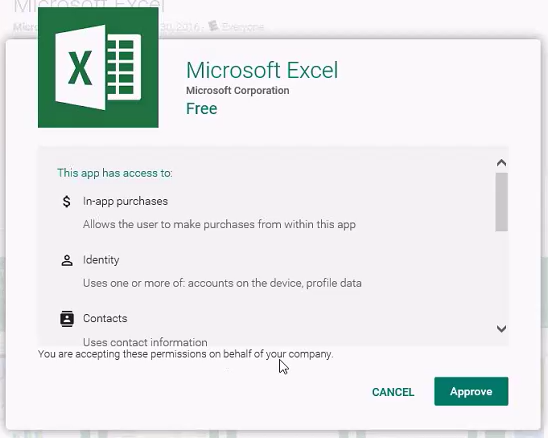
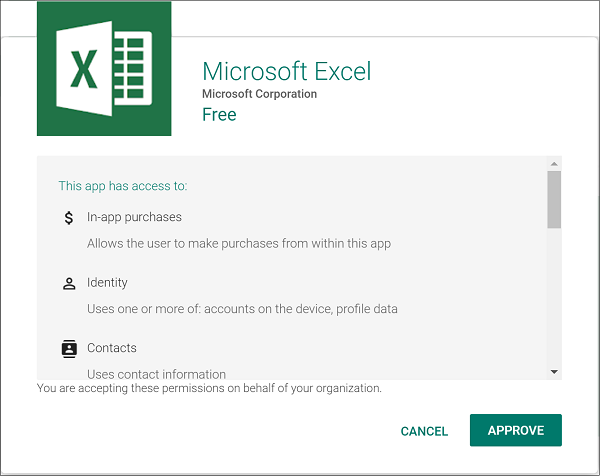
erikre - Update apps 09

diff --git a/intune/apps-add-android-for-work.md b/intune/apps-add-android-for-work.md
@@ -3,12 +3,12 @@
 
 title: Assign apps to Android for Work devices 
 titlesuffix: Microsoft Intune
-description: Understand how to synchronize and assign apps to Android for Work devices from the Google Play for Work Store."
+description: Understand how to synchronize and assign apps to Android for Work devices from the Google Play for Work Store.
 keywords:
 author: Erikre
 ms.author: erikre
 manager: dougeby
-ms.date: 03/05/2018
+ms.date: 03/07/2018
 ms.topic: article
 ms.prod:
 ms.service: microsoft-intune
@@ -44,39 +44,51 @@ Make sure you have configured Intune and Android for Work to work together in th
 ## Synchronize an app from the Google Play for Work store
 
 1. Go to the [Google Play for Work store](https://play.google.com/work). Sign in with the same account you used to configure the connection between Intune and Android for Work.
-2. Search the store for the app you want to assign using Intune.
-3. On the page for the app you chose, choose **Approve**. In this example, you have chosen the Microsoft Excel app.<br>
-  ![Approve app example](media/approve.png)
-4. A window for the app opens asking you to give permissions for the app to perform various operations. Choose **Approve** to continue.<br>
-  ![Approve app permissions example](media/approve-app-permissions.png)
-5. The app is approved and displays in your IT admin console.
+2. Search the store and select the app you want to assign using Intune.
+3. Select **Approve** on the page showing the app. The following examples shows the Microsoft Excel app has been chosen.</br>
 
-## Publish, then synchronize, a line-of-business app from the Google Play for Work store
+    ![Example - Approve app in the Google Play for Work store](media/approve.png)</br>
+    
+  A window for the app opens asking you to give permissions for the app to perform various operations. 
 
-1. Go to the Google Play Developer Console, [play.google.com/apps/publish](https://play.google.com/apps/publish).
-2. Sign in with the same account you used to configure the connection between Intune and Android for Work. If you are signing in for the first time, you must register, and pay a fee to become a member of the Google Developer program.
-3. In the console, choose **Add new application**.
-4. You upload and provide information about your app in the same way as you publish any app to the Google Play store. However, you must select the setting **Only make this application available to my organization (<*organization name*>)**:<br>
-  ![Option to only make app available to your organization](media/restrict.png)<br>
-This operation ensures that the app is only available to your organization, and is not available in the public Google Play store.
-For more information about how to upload and publish Android apps, see the [Google Developer Console Help](https://support.google.com/googleplay/android-developer/answer/113469).
-5. Once you have published your app, go to the [Google Play for Work store](https://play.google.com/work). Sign in with the same account you used to configure the connection between Intune and Android for Work.
-6. In the **Apps** node of the store, verify you can see the app you have published. The app is automatically approved to be synchronized with Intune.
+4. Select **Approve** to accept the app permissions and continue.</br>
 
-## Assign an Android for Work app
+    ![Example - Approve app permissions](media/approve-app-permissions.png)
+
+5. Choose the how to handle new app perimssion requests. Thenn, select **Save** to save how new app permission requests will be handled.</br>
+
+    ![Example - Save new app perimssion requests](media/approve-app-settings.png)</br>
+
+    The app is approved and displays in your IT admin console. Now you can sync the Android for Work app with Intune and 
+
+## Sync an Android for Work app with Intune
 
 If you have approved an app from the store and don't see it in the **Licensed apps** node of the **Mobile apps** workload, force an immediate sync as follows:
 
 1. Sign into the [Azure portal](https://portal.azure.com).
 2. Choose **All services** > **Intune**. Intune is located in the **Monitoring + Management** section.
-2. On the **Intune** pane, choose **Mobile apps**.
-3. In the **Mobile apps** workload, choose **Setup** > **Android for Work**.
-4. On the Android for Work pane, choose **Sync**.
-5. The page also displays the time and status of the last sync.
+3. On the **Intune** pane, choose **Mobile apps**.
+4. In the **Mobile apps** workload, choose **Android for Work** in the **Setup** section.
+5. On the Android for Work pane, choose **Sync**. The page will update the time and status of the last sync.
+6. In the **Mobile apps** workload, select **Apps** to display the newly available Android for Work app.
 
-When the app is displayed in the **Licensed apps** node of the **Mobile apps** workload, you can [assign it just like you would assign any other app](/intune-azure/manage-apps/deploy-apps). You can assign the app to groups of users only.
+When the app is displayed in the **App licenses** node of the **Mobile apps** workload, you can [assign it just like you would assign any other app](/intune-azure/manage-apps/deploy-apps). You can assign the app to groups of users only.
 
 After you assign the app, it will be installed on the devices you targeted. The user of the device is not asked to approve the installation.
+
+## Working with a line-of-business app from the Google Play for Work store
+
+1. Go to the Google Play Developer Console, [play.google.com/apps/publish](https://play.google.com/apps/publish).
+2. Sign in with the same account you used to configure the connection between Intune and Android for Work. If you are signing in for the first time, you must register, and pay a fee to become a member of the Google Developer program.
+3. In the console, choose **Add new application**.
+4. You upload and provide information about your app in the same way as you publish any app to the Google Play store. However, you must select the setting **Only make this application available to my organization (<*organization name*>)**:</br>
+
+    ![Option to only make app available to your organization](media/restrict.png)</br>
+
+This operation ensures that the app is only available to your organization, and is not available in the public Google Play store.
+For more information about how to upload and publish Android apps, see the [Google Developer Console Help](https://support.google.com/googleplay/android-developer/answer/113469).
+5. Once you have published your app, go to the [Google Play for Work store](https://play.google.com/work). Sign in with the same account you used to configure the connection between Intune and Android for Work.
+6. In the **Apps** node of the store, verify you can see the app you have published. The app is automatically approved to be synchronized with Intune.
 
 ## Manage Android for Work app permissions
 Android for Work requires you approve apps in Google's managed Play web console before syncing them to Intune and assigning them to your users.  Because Android for Work allows you to silently and automatically push these apps to users' devices, you must accept the app's permissions on behalf of all your users.  End users do not see any app permissions when they install, so it's important that you read and understand these permissions.
